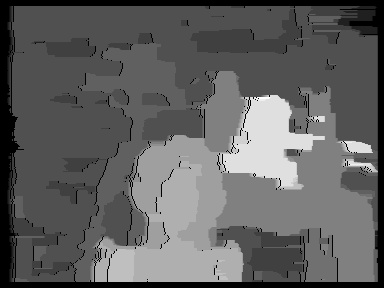
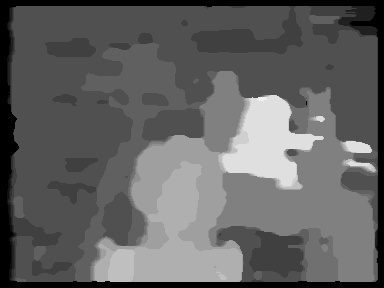
dp with post processing

diff --git a/DepthMap/semi_global_matching_refine.cpp b/DepthMap/semi_global_matching_refine.cpp
@@ -361,6 +361,7 @@ float filterblurpointRGB(Mat newimage, int i, int j, int filtersize, int color) 
 }
 
 int main() {
+
 	Mat firstImage = imread("Resources/tsukuba/scene1.row3.col1.jpg", CV_LOAD_IMAGE_GRAYSCALE);
 	Mat secondImage = imread("Resources/tsukuba/scene1.row3.col2.jpg", CV_LOAD_IMAGE_GRAYSCALE);
 
@@ -439,8 +440,8 @@ int main() {
 	Mat Refinement = disparityMap.clone();
 	float disimg_mean = mean(disparityMap);
 	int threshold = 1.8;//disparity gradient limit
-	for (int i = 0; i < disparityMap.rows - 1; ++i) {
-		for (int j = 0; j < disparityMap.cols - 1; ++j) {
+	for (int i = 1; i < disparityMap.rows - 1; ++i) {
+		for (int j = 1; j < disparityMap.cols - 1; ++j) {
 			float d1 = disparityMap.at<uchar>(i, j);//the current disparity
 			float up, down, right, left;//save the gradient
 			left = calculateGradient(i - 1, j, disparityMap, d1);
@@ -523,26 +524,27 @@ int main() {
 		cout << endl;
 	}
 	imshow("sense", newimage);
-	Mat color_img = imread("Resources/tsukuba/scene1.row3.col1.jpg", CV_LOAD_IMAGE_COLOR);
-	for (int i = 0; i < disparityMap.rows; i++) {
-		for (int j = 0; j < disparityMap.cols; j++) {
-			if ((float)Refinement.at<uchar>(i, j) <= 80)
-			{
-				color_img.at<Vec3b>(i, j)[0] = filterblurpoint(color_img, i, j, 5);
-				color_img.at<Vec3b>(i, j)[1] = filterblurpoint(color_img, i, j, 5);
-				color_img.at<Vec3b>(i, j)[2] = filterblurpoint(color_img, i, j, 5);
 
-			}
-			if ((float)Refinement.at<uchar>(i, j) > 80 && (float)Refinement.at<uchar>(i, j) <= 100)
-			{
-				color_img.at<Vec3b>(i, j)[0] = filterblurpoint(color_img, i, j, 3);
-				color_img.at<Vec3b>(i, j)[1] = filterblurpoint(color_img, i, j, 3);
-				color_img.at<Vec3b>(i, j)[2] = filterblurpoint(color_img, i, j, 3);
-			}
-		}
-		cout << endl;
-	}
-	imshow("color_img", color_img);
+	//Mat color_img = imread("Resources/tsukuba/scene1.row3.col1.jpg", CV_LOAD_IMAGE_COLOR);
+	//for (int i = 0; i < disparityMap.rows; i++) {
+	//	for (int j = 0; j < disparityMap.cols; j++) {
+	//		if ((float)Refinement.at<uchar>(i, j) <= 80)
+	//		{
+	//			color_img.at<Vec3b>(i, j)[0] = filterblurpoint(color_img, i, j, 5);
+	//			color_img.at<Vec3b>(i, j)[1] = filterblurpoint(color_img, i, j, 5);
+	//			color_img.at<Vec3b>(i, j)[2] = filterblurpoint(color_img, i, j, 5);
+
+	//		}
+	//		if ((float)Refinement.at<uchar>(i, j) > 80 && (float)Refinement.at<uchar>(i, j) <= 100)
+	//		{
+	//			color_img.at<Vec3b>(i, j)[0] = filterblurpoint(color_img, i, j, 3);
+	//			color_img.at<Vec3b>(i, j)[1] = filterblurpoint(color_img, i, j, 3);
+	//			color_img.at<Vec3b>(i, j)[2] = filterblurpoint(color_img, i, j, 3);
+	//		}
+	//	}
+	//	cout << endl;
+	//}
+	//imshow("color_img", color_img);
 	//imshow("checknew", checknew);
 	//for (int i = 0; i < disparityMap.rows; i++) {
 	//	for (int j = 0; j < disparityMap.cols; j++) {

diff --git a/DepthMap/Source.cpp b/DepthMap/Source.cpp
@@ -80,9 +80,11 @@ int main() {
 		for (int colIndex = 0; colIndex < SrcImg1.cols; colIndex++) {
 			int which_level = (float)DisparityMap.at<uchar>(rowIndex, colIndex) / (255.0 / LEVEL);
 			DisparityMap.at<uchar>(rowIndex, colIndex) = ((float)which_level / LEVEL) * 255.0;
+			//DisparityMap2.at<uchar>(rowIndex, colIndex) = ((float)which_level / LEVEL) * 255.0;
 		}
 	}
-
+	medianBlur(DisparityMap2, DisparityMap2, 5);
+	
 	imshow("Disparity Map", DisparityMap);
 	imshow("Disparity Map DP", DisparityMap2);
 	imwrite("Resources/tsukuba/disparity map.jpg", DisparityMap);
@@ -300,9 +302,10 @@ void matchingDP(int windowsize,  Mat SrcImg1, Mat SrcImg2, Mat & DisparityMap)
 		for (int i = m + 1; i < SrcImg1.cols - m - 1; i++) {
 			original_disparitiy.at<int>(scanline, leftpixel) = disparity;
 			if (DPtable2.at<int>(leftpixel, rigthpixel) == none) {
+				if (leftpixel == m + 1)
+					break;
 				cout << "Something wrong!!!!!!!!!!!!!!!!!!!!!!!!!!!!!!!!" << endl;
-				//original_disparitiy.at<int>(scanline, leftpixel) = DISPARITY_RANGE;
-				//break;
+				cout << "(" << leftpixel << "," << rigthpixel << ")" << endl;
 			}
 			if (DPtable2.at<int>(leftpixel, rigthpixel) == left) {
 				--rigthpixel;
